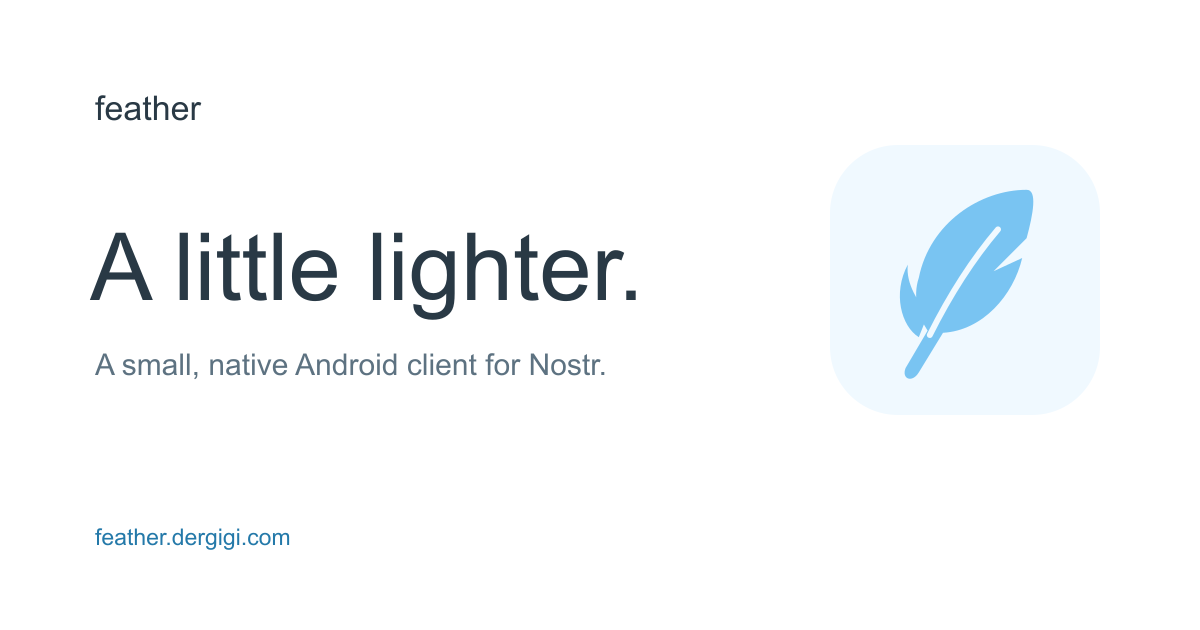
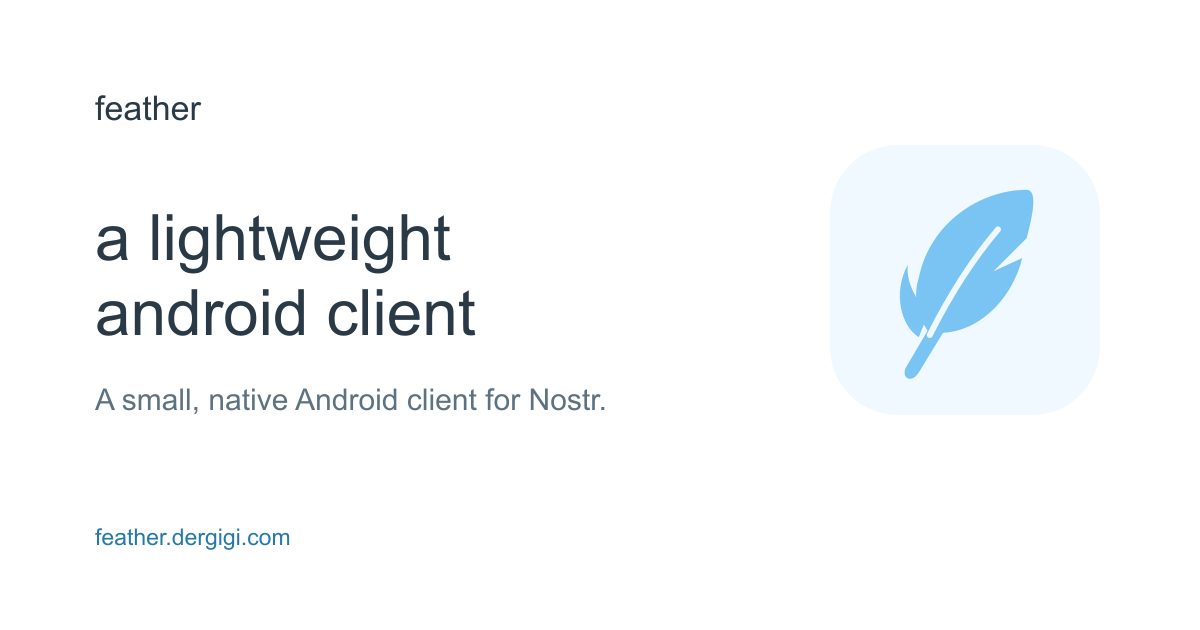
docs: change tagline to a lightweight android client

Changed region(s): [[0.0617, 0.3317, 0.5242, 0.6635]]

diff --git a/website/style.css b/website/style.css
@@ -1,1 +1,3 @@
 :root{color-scheme:light;--ink:#293945;--muted:#5d7281;--blue:#2479a9;--sky:#79c4f2;--mist:#f0f9ff;--line:#e9f0f4}*{box-sizing:border-box}html{scroll-behavior:smooth}body{margin:0;background:#fff;color:var(--ink);font-family:Inter,ui-sans-serif,system-ui,-apple-system,BlinkMacSystemFont,"Segoe UI",sans-serif;-webkit-font-smoothing:antialiased}a{color:inherit;text-underline-offset:4px}a:hover{color:var(--blue)}a:focus-visible{outline:3px solid var(--blue);outline-offset:6px}.wrap{max-width:1160px;margin:auto;padding-left:44px;padding-right:44px}header{display:flex;align-items:center;justify-content:space-between;height:112px}.brand{display:inline-flex;align-items:center;gap:8px;text-decoration:none;font-size:25px;font-weight:650;letter-spacing:-1px}.source{font-size:13px;text-decoration:none;color:var(--muted)}.source span{margin-left:8px}.hero{display:grid;grid-template-columns:1.1fr 1fr;gap:60px;align-items:center;min-height:650px;padding:62px 0 110px}.eyebrow{font-size:11px;font-weight:650;letter-spacing:2.4px;display:flex;align-items:center;gap:10px;color:var(--muted)}.eyebrow span{height:6px;width:6px;border-radius:50%;background:var(--sky)}h1{font-size:clamp(64px,7.9vw,100px);line-height:1.02;letter-spacing:-6px;font-weight:550;margin:28px 0}h1 span{color:var(--blue)}.lead{font-size:24px;line-height:1.45;letter-spacing:-.5px;margin:0 0 20px}.description{font-size:16px;line-height:1.8;max-width:390px;color:var(--muted)}.actions{display:flex;align-items:center;gap:23px;margin-top:30px;flex-wrap:wrap}.button{background:var(--blue);color:white;text-decoration:none;border-radius:100px;padding:15px 21px;font-size:14px;font-weight:550;display:inline-flex;align-items:center;gap:24px}.button:hover{background:#1c628a;color:white}.secondary{font-size:13px;text-decoration:none}.fine{color:var(--muted);font-size:11px;margin-top:17px}.visual{display:flex;align-items:center;flex-direction:column;padding-top:20px}.icon-tile{width:310px;height:310px;border-radius:76px;background:var(--mist);display:grid;place-items:center;transform:rotate(-8deg)}.icon-tile img{width:235px;height:235px;transform:rotate(8deg)}.visual-caption{display:flex;flex-direction:column;text-align:center;margin-top:40px;gap:10px}.visual-caption span{font-size:34px;font-weight:600;letter-spacing:-1.5px}.visual-caption small{font-size:12px;color:var(--muted)}.details{border-top:1px solid var(--line);border-bottom:1px solid var(--line);display:grid;grid-template-columns:repeat(3,1fr);gap:54px;padding:45px 0 47px}.number{color:var(--blue);font-size:11px;letter-spacing:1px}h2{font-size:18px;font-weight:550;letter-spacing:-.4px;margin:17px 0 12px}.details p{color:var(--muted);font-size:14px;line-height:1.8;margin:0}.closing{text-align:center;padding:95px 0 105px}.closing p{font-size:32px;line-height:1.4;letter-spacing:-1px;font-weight:400;margin:16px 0 25px}.closing strong{font-weight:500}.closing a{font-size:13px;color:var(--blue);text-decoration:none}footer{border-top:1px solid var(--line);padding-top:28px;padding-bottom:35px;display:flex;justify-content:space-between;font-size:12px;color:var(--muted)}footer a{text-decoration:none}footer nav{display:flex;gap:25px}.skip{position:absolute;left:12px;top:-100px;background:#fff;padding:12px}.skip:focus{top:12px}.legal{max-width:700px;margin:40px auto 100px;line-height:1.8}.legal h1{font-size:48px;letter-spacing:-2px}.legal h2{font-size:22px;margin-top:30px}@media(max-width:760px){.wrap{padding-left:25px;padding-right:25px}header{height:88px}.hero{grid-template-columns:1fr;gap:45px;padding:35px 0 65px;min-height:0}h1{font-size:76px;letter-spacing:-4px}.visual{padding-top:0;order:-1;display:none}.intro{max-width:500px}.details{grid-template-columns:1fr;gap:34px;padding:35px 0}.details>div{max-width:440px}.closing{padding:65px 0}footer{gap:24px;flex-direction:column}footer nav{gap:20px}.actions{gap:20px}.legal{margin-top:20px}}@media(prefers-reduced-motion:reduce){html{scroll-behavior:auto}}
+
+.hero h1{font-size:clamp(38px,5.2vw,64px);line-height:1.08;letter-spacing:-2.5px}@media(max-width:760px){.hero h1{font-size:clamp(36px,10vw,64px);letter-spacing:-1.5px}}

diff --git a/website/index.html b/website/index.html
@@ -2,11 +2,11 @@
 <html lang="en">
 <head>
   <meta charset="utf-8"><meta name="viewport" content="width=device-width,initial-scale=1">
-  <title>Feather — a little lighter.</title>
+  <title>Feather — a lightweight android client</title>
   <meta name="description" content="A small, native Android client for Nostr. Your following feed, public notes, and room to breathe. Free and open source.">
   <meta name="theme-color" content="#ffffff"><link rel="canonical" href="https://feather.dergigi.com/">
   <link rel="icon" href="/assets/icon.svg" type="image/svg+xml"><link rel="stylesheet" href="/style.css">
-  <meta property="og:type" content="website"><meta property="og:title" content="Feather — a little lighter.">
+  <meta property="og:type" content="website"><meta property="og:title" content="Feather — a lightweight android client">
   <meta property="og:description" content="A small, native Android client for Nostr. Free and open source."><meta property="og:url" content="https://feather.dergigi.com/">
   <meta property="og:image" content="https://feather.dergigi.com/assets/social.png"><meta name="twitter:card" content="summary_large_image">
 </head>
@@ -17,7 +17,7 @@
     <section class="hero" aria-labelledby="title">
       <div class="intro">
         <p class="eyebrow"><span></span> NOSTR, LIGHTLY.</p>
-        <h1 id="title">A little<br><span>lighter.</span></h1>
+        <h1 id="title">a <span>lightweight</span><br>android client</h1>
         <p class="lead">Your people. Their notes.<br>Room to breathe.</p>
         <p class="description">Feather is a small, native Android client for Nostr. A chronological feed with room to breathe. Just enough to stay connected.</p>
         <div class="actions"><a class="button" href="https://zapstore.dev/apps/org.dergigi.feather">Get it on Zapstore <span aria-hidden="true">↓</span></a><a class="secondary" href="https://github.com/dergigi/feather/releases/latest">Download APK <span aria-hidden="true">↗</span></a></div>

diff --git a/docs/BRAND.md b/docs/BRAND.md
@@ -1,5 +1,9 @@
 # Soft Plume
 
+Tagline: **a lightweight android client**. Keep it lowercase.
+
+Supporting line: “Your people. Their notes. Room to breathe.”
+
 Feather uses a rounded sky-blue feather, a lowercase wordmark, and white backgrounds. The selected direction is concept 02, Soft Plume. Production marks are lightweight vectors, adapted from that direction.
 
 - Feather blue: `#79C4F2` (brand mark and decorative accents).

diff --git a/CHANGELOG.md b/CHANGELOG.md
@@ -4,6 +4,9 @@ All notable changes are documented here, following [Keep a Changelog](https://ke
 
 ## [Unreleased]
 
+### Changed
+- Brand tagline changed to “a lightweight android client” across the website and social preview.
+
 ## [0.3.0] - 2026-10-10
 
 ### Added
